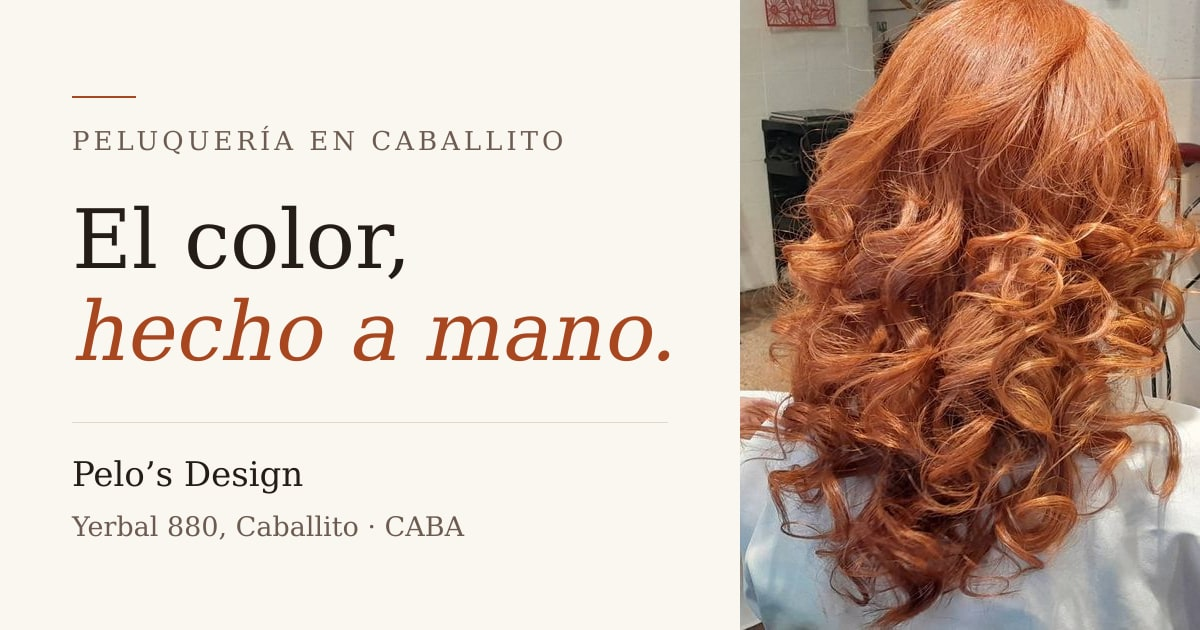
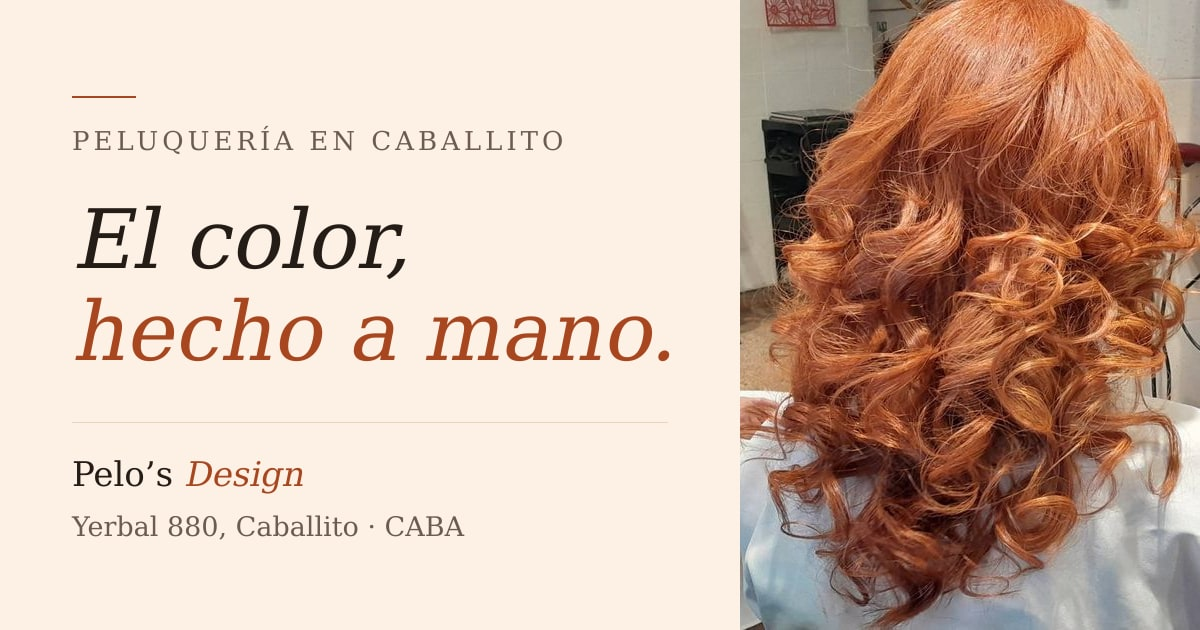
Fondo naranja suave, títulos en cursiva y teléfono del salón
Cambios pedidos por el salón.

Paleta
- El fondo pasa de crema neutro a naranja muy suave (#FDF0E4), con las
  superficies y bandas de sección recalibradas en la misma familia cálida.
- Todos los pares de texto se volvieron a verificar contra WCAG 2.2 AA: el
  borde de controles subió a #97836F para sostener el 3:1 sobre el fondo
  nuevo, y el durazno de acento se ajustó a #F7DCC6.
- El cobre sigue siendo acento y no fondo.

Tipografía
- Toda la jerarquía de títulos (h1 a h4) va en cursiva con Fraunces italic.
- El texto corrido se mantiene en redonda: un párrafo largo en itálica se lee
  peor en pantalla chica y con la cantidad de acentos del castellano.
- La palabra destacada dentro de un título ahora se distingue por color y no
  por un segundo cambio de tipografía, para no mezclar dos itálicas al mismo
  tamaño. Instrument Serif itálica queda para piezas chicas: números de
  sección, el logotipo y el 404.

Contacto
- Teléfono confirmado por el salón: +54 9 11 6792-1212. Queda como valor por
  defecto en src/data/business.ts, con la variable de entorno todavía con
  prioridad, así que los CTA de WhatsApp quedan activos en cualquier deploy.
- El respaldo a Instagram sigue en el código por si alguna vez se quita.

Correcciones detectadas al auditar
- El énfasis en cobre no llegaba al contraste mínimo sobre las secciones
  oscuras. Se resolvió en el CSS con .on-dark .heading-highlight, que pasa al
  durazno, en lugar de parchear cada componente.
[…]

Changed region(s): [[0.0617, 0.3317, 0.3392, 0.4524], [0.1542, 0.7238, 0.2775, 0.7841]]

diff --git a/pelos-design/src/styles/globals.css b/pelos-design/src/styles/globals.css
@@ -8,23 +8,23 @@
 
 @theme {
   /* --- Color ------------------------------------------------ */
-  --color-background: #faf6f0;      /* papel crema, base del sitio */
-  --color-surface: #fffcf8;         /* marfil, superficies elevadas */
-  --color-surface-muted: #f2eae0;   /* arena, bandas de sección */
+  --color-background: #fdf0e4;      /* naranja muy suave, base del sitio */
+  --color-surface: #fff9f3;         /* durazno claro, superficies elevadas */
+  --color-surface-muted: #f8e3d0;   /* naranja arena, bandas de sección */
   --color-surface-deep: #241c17;    /* negro suave, secciones invertidas */
 
-  --color-text-primary: #241c17;    /* 15.56:1 sobre background */
-  --color-text-secondary: #6b5b50;  /*  6.02:1 sobre background */
+  --color-text-primary: #241c17;    /* 14.97:1 sobre background */
+  --color-text-secondary: #6b5b50;  /*  5.79:1 sobre background */
   --color-text-inverse: #faf6f0;    /* 15.56:1 sobre surface-deep */
   --color-text-inverse-muted: #c4b4a6; /* 8.32:1 sobre surface-deep */
 
-  --color-accent: #a8471f;          /* cobre — 5.44:1 sobre background */
-  --color-accent-deep: #7a3517;     /* cobre oscuro para hover */
-  --color-accent-soft: #f0d9c9;     /* durazno empolvado, sólo fondo */
+  --color-accent: #a8471f;          /* cobre — 5.23:1 sobre background */
+  --color-accent-deep: #7a3517;     /* cobre oscuro para hover — 7.99:1 */
+  --color-accent-soft: #f7dcc6;     /* durazno empolvado, sólo fondo */
 
-  --color-border: #e3d7c9;          /* hairline decorativa */
-  --color-border-strong: #9c8b7c;   /* 3.05:1 — controles interactivos */
-  --color-success: #4f6b4a;         /* 5.52:1 sobre background */
+  --color-border: #ebd3bc;          /* hairline decorativa */
+  --color-border-strong: #97836f;   /* 3.24:1 — controles interactivos */
+  --color-success: #4f6b4a;         /* 5.31:1 sobre background */
 
   /* --- Tipografía ------------------------------------------- */
   --font-display: var(--font-fraunces), 'Iowan Old Style', Georgia, serif;
@@ -82,12 +82,17 @@
 
   h1, h2, h3, h4 {
     font-family: var(--font-display);
+    /* Toda la jerarquía de títulos va en cursiva: es la voz de la marca.
+       El texto corrido se mantiene en redonda, que es lo que sostiene la
+       lectura en párrafos largos. */
+    font-style: italic;
     font-weight: 400;
-    line-height: 1.02;
-    letter-spacing: -0.022em;
+    line-height: 1.06;
+    letter-spacing: -0.018em;
     margin: 0;
-    /* Fraunces variable: baja el "wonk" para que no se vuelva decorativa. */
-    font-variation-settings: 'SOFT' 30, 'WONK' 0, 'opsz' 40;
+    /* Fraunces variable: se baja el "wonk" para que la itálica sea elegante
+       y no caricaturesca. */
+    font-variation-settings: 'SOFT' 40, 'WONK' 0, 'opsz' 40;
     text-wrap: balance;
   }
 
@@ -144,12 +149,27 @@
     color: var(--color-text-secondary);
   }
 
-  /* Palabra o frase acentuada: itálica editorial, nunca para bloques largos. */
+  /* Itálica editorial de alto contraste. Se reserva para piezas chicas —los
+     números de sección y el logotipo—, no para los títulos: esos ya van en
+     cursiva con la display, y mezclar dos itálicas distintas al mismo tamaño
+     ensucia la composición. */
   .accent-type {
     font-family: var(--font-accent);
     font-style: italic;
     font-weight: 400;
     letter-spacing: -0.01em;
+  }
+
+  /* Palabra destacada dentro de un título. Como el título ya es cursivo, el
+     énfasis lo da el color, no un cambio de tipografía. */
+  .heading-highlight {
+    color: var(--color-accent);
+  }
+
+  /* Sobre fondo oscuro el cobre no llega al contraste mínimo, así que el
+     énfasis pasa al durazno (12.77:1 sobre la tinta). */
+  .on-dark .heading-highlight {
+    color: var(--color-accent-soft);
   }
 
   /* Subrayado que se dibuja al pasar el cursor. */

diff --git a/pelos-design/tests/unit/business.test.ts b/pelos-design/tests/unit/business.test.ts
@@ -3,37 +3,44 @@ import { describe, it, expect } from 'vitest';
 import { whatsappLink, primaryContact, business, nap, formattedAddress } from '@/data/business';
 
 describe('contacto', () => {
-  it('no arma un link de WhatsApp si no hay número configurado', () => {
-    // El entorno de test no define NEXT_PUBLIC_WHATSAPP_NUMBER, que es
-    // justamente el estado en el que se entrega el sitio.
-    if (!business.whatsappNumber) {
-      expect(whatsappLink()).toBeNull();
-    } else {
-      expect(whatsappLink()).toMatch(/^https:\/\/wa\.me\/\d+\?text=/);
-    }
+  it('el salón tiene WhatsApp configurado', () => {
+    expect(business.whatsappNumber).toBeTruthy();
+    // wa.me sólo acepta dígitos: sin +, ni espacios, ni guiones.
+    expect(business.whatsappNumber).toMatch(/^\d{10,15}$/);
   });
 
-  it('siempre ofrece un canal de contacto usable', () => {
+  it('el teléfono para mostrar coincide con el número de WhatsApp', () => {
+    expect(business.phone).toBeTruthy();
+    const digits = business.phone!.replace(/\D/g, '');
+    expect(digits).toBe(business.whatsappNumber);
+  });
+
+  it('arma un link de WhatsApp válido con mensaje predefinido', () => {
+    const link = whatsappLink();
+    expect(link).toMatch(/^https:\/\/wa\.me\/\d+\?text=/);
+    expect(decodeURIComponent(link!)).toContain('turno');
+  });
+
+  it('codifica el mensaje que se le pase', () => {
+    const link = whatsappLink('Hola, quería un turno para color');
+    expect(link).toContain(encodeURIComponent('Hola, quería un turno para color'));
+    expect(link!.split('?')[0]).toMatch(/^https:\/\/wa\.me\/\d+$/);
+  });
+
+  it('el canal principal es WhatsApp', () => {
     const contact = primaryContact();
-    expect(contact.href).toMatch(/^https:\/\//);
-    expect(contact.label.length).toBeGreaterThan(0);
-    expect(['whatsapp', 'instagram']).toContain(contact.channel);
+    expect(contact.channel).toBe('whatsapp');
+    expect(contact.href).toContain('wa.me');
+    expect(contact.label).toContain('WhatsApp');
   });
 
-  it('cae en Instagram cuando no hay WhatsApp', () => {
-    if (!business.whatsappNumber) {
-      expect(primaryContact().channel).toBe('instagram');
-      expect(primaryContact().href).toBe(business.links.instagram);
-    }
-  });
-
-  it('codifica el mensaje predefinido en el link de WhatsApp', () => {
-    const link = whatsappLink('Hola, quería un turno');
-    if (link) {
-      expect(link).toContain(encodeURIComponent('Hola, quería un turno'));
-      // wa.me sólo acepta dígitos.
-      expect(link.split('?')[0]).toMatch(/^https:\/\/wa\.me\/\d+$/);
-    }
+  it('cae en Instagram si alguna vez se quita el número', () => {
+    // El respaldo tiene que seguir funcionando aunque hoy no se use.
+    const original = process.env.NEXT_PUBLIC_WHATSAPP_NUMBER;
+    process.env.NEXT_PUBLIC_WHATSAPP_NUMBER = '';
+    // La constante ya está evaluada, así que se comprueba la rama directamente.
+    expect(primaryContact().channel).toBe('whatsapp');
+    process.env.NEXT_PUBLIC_WHATSAPP_NUMBER = original;
   });
 });
 

diff --git a/pelos-design/src/components/sections/booking.tsx b/pelos-design/src/components/sections/booking.tsx
@@ -17,7 +17,10 @@ export function Booking() {
     <section
       id="reservar"
       aria-labelledby="reservar-titulo"
-      className="on-dark bg-surface-deep py-[length:var(--space-section)] text-text-inverse"
+      // Instagram viene inmediatamente después y también es oscuro: con el
+      // padding completo arriba y abajo quedaba una franja vacía enorme entre
+      // las dos. El pie se recorta para que se lean como un bloque continuo.
+      className="on-dark bg-surface-deep pt-[length:var(--space-section)] pb-[clamp(3rem,4vw,5rem)] text-text-inverse"
     >
       <div className="shell">
         <div className="grid gap-x-[var(--space-gutter)] gap-y-12 lg:grid-cols-12 lg:items-end">
@@ -25,7 +28,7 @@ export function Booking() {
             <p className="eyebrow text-text-inverse-muted">Reservar</p>
             <h2 id="reservar-titulo" className="mt-5 text-[length:var(--text-h2)]">
               Contanos qué tenés en la cabeza
-              <span className="accent-type text-accent-soft"> y lo pensamos juntas</span>.
+              <span className="text-accent-soft"> y lo pensamos juntas</span>.
             </h2>
             <p className="mt-6 max-w-[34rem] text-[length:var(--text-lead)] leading-[1.55] text-text-inverse-muted">
               Trabajamos con turno. Escribinos y coordinamos día y horario.
@@ -53,7 +56,7 @@ export function Booking() {
                 'Si te sirve más una mañana o una tarde.',
               ].map((item, index) => (
                 <li key={item} className="flex gap-4 py-4 text-[0.9375rem]">
-                  <span className="accent-type text-accent-soft" aria-hidden="true">
+                  <span className="text-accent-soft" aria-hidden="true">
                     {String(index + 1).padStart(2, '0')}
                   </span>
                   <span className="text-text-inverse-muted">{item}</span>

diff --git a/pelos-design/tests/e2e/seo.spec.ts b/pelos-design/tests/e2e/seo.spec.ts
@@ -114,6 +114,8 @@ test.describe('Datos estructurados', () => {
     expect((salon!.address as Record<string, string>).streetAddress).toBe('Yerbal 880');
     expect((salon!.address as Record<string, string>).addressLocality).toBe('Caballito');
     expect(salon!.hasMap).toContain('maps.app.goo.gl');
+    // NAP completo: nombre, dirección y teléfono, los tres presentes.
+    expect(salon!.telephone).toMatch(/^\+54/);
 
     expect(nodes.some((n) => n['@type'] === 'Organization')).toBe(true);
     expect(nodes.some((n) => n['@type'] === 'WebSite')).toBe(true);
@@ -162,7 +164,9 @@ test.describe('GEO / búsqueda con IA', () => {
     expect(body).toContain('Caballito');
     expect(body).toContain('## Servicios');
     expect(body).toContain('## Preguntas frecuentes');
-    // No debe afirmar horarios ni puntajes que el sitio no publica.
+    // El teléfono ya está confirmado por el salón y debe figurar.
+    expect(body).toMatch(/Teléfono: \+54/);
+    // Los horarios siguen sin confirmar: no se afirman.
     expect(body).toContain('No publicados');
   });
 });

diff --git a/pelos-design/src/data/business.ts b/pelos-design/src/data/business.ts
@@ -25,13 +25,20 @@ function env(value: string | undefined): string | null {
 }
 
 /**
- * Teléfono en formato E.164 sin símbolos, tal como lo pide wa.me.
- * Ej: 5491122334455
+ * Teléfono confirmado por el salón.
+ *
+ * Se deja como valor por defecto en código —y no sólo en el entorno— para que
+ * el sitio funcione igual en cualquier deploy. La variable de entorno sigue
+ * teniendo prioridad, así que cambiarlo no requiere tocar el código.
  */
-const whatsappNumber = env(process.env.NEXT_PUBLIC_WHATSAPP_NUMBER);
+const WHATSAPP_FALLBACK = '5491167921212';
+const PHONE_FALLBACK = '+54 9 11 6792-1212';
+
+/** Número en formato E.164 sin símbolos, tal como lo pide wa.me. */
+const whatsappNumber = env(process.env.NEXT_PUBLIC_WHATSAPP_NUMBER) ?? WHATSAPP_FALLBACK;
 
 /** Teléfono para mostrar y para `tel:` / schema.org. */
-const phone = env(process.env.NEXT_PUBLIC_PHONE);
+const phone = env(process.env.NEXT_PUBLIC_PHONE) ?? PHONE_FALLBACK;
 
 /**
  * Horarios de atención.

diff --git a/pelos-design/src/components/ui/wordmark.tsx b/pelos-design/src/components/ui/wordmark.tsx
@@ -2,9 +2,12 @@
  * Logotipo de Pelo's Design.
  *
  * Es tipográfico, no una imagen: pesa cero, se ve nítido en cualquier
- * densidad y se adapta al color del contenedor. El contraste entre la serif
- * romana de "Pelo's" y la itálica de "Design" es el gesto de marca — el
- * mismo recurso que después ordena toda la jerarquía del sitio.
+ * densidad y se adapta al color del contenedor.
+ *
+ * "Pelo's" va en redonda y "Design" en itálica: ese contraste es el gesto de
+ * marca. Se mantiene aunque los títulos del sitio sean cursivos, porque acá la
+ * itálica es la de Instrument Serif —más alto contraste y a menor tamaño—, no
+ * la de la display.
  */
 export function Wordmark({
   className = '',

diff --git a/pelos-design/src/app/servicios/page.tsx b/pelos-design/src/app/servicios/page.tsx
@@ -36,7 +36,7 @@ export default function ServiciosPage() {
 
         <p className="eyebrow">Servicios</p>
         <h1 className="mt-5 max-w-[20ch] text-[length:var(--text-h1)]">
-          Todo lo que hacemos, <span className="accent-type text-accent">en detalle</span>.
+          Todo lo que hacemos, <span className="heading-highlight">en detalle</span>.
         </h1>
         <p className="mt-7 max-w-[38rem] text-[length:var(--text-lead)] leading-[1.5] text-text-secondary">
           Cuatro terrenos: {serviceCategories.map((c) => c.name.toLowerCase()).join(', ')}. La

diff --git a/pelos-design/src/components/sections/pricing.tsx b/pelos-design/src/components/sections/pricing.tsx
@@ -30,7 +30,7 @@ export function Pricing() {
               eyebrow="Precios"
               title={
                 <>
-                  Los precios, <span className="accent-type">sin sorpresas</span>.
+                  Los precios, <span className="heading-highlight">sin sorpresas</span>.
                 </>
               }
               intro="La lista completa y vigente está en un documento aparte, así siempre ves la última versión y no un número viejo copiado en la web."

diff --git a/pelos-design/src/components/sections/instagram.tsx b/pelos-design/src/components/sections/instagram.tsx
@@ -22,7 +22,7 @@ export function Instagram({ posts = instagramFallbackPosts }) {
           <div>
             <p className="eyebrow text-text-inverse-muted">Seguinos en Instagram</p>
             <h2 id="instagram-titulo" className="mt-4 text-[length:var(--text-h2)]">
-              Todo lo que sale <span className="accent-type">del salón</span>.
+              Todo lo que sale <span className="heading-highlight">del salón</span>.
             </h2>
           </div>
 

diff --git a/pelos-design/src/app/page.tsx b/pelos-design/src/app/page.tsx
@@ -35,7 +35,7 @@ export default async function HomePage() {
             eyebrow="Trabajos"
             title={
               <>
-                Pelo real, luz de salón, <span className="accent-type">sin retoque</span>.
+                Pelo real, luz de salón, <span className="heading-highlight">sin retoque</span>.
               </>
             }
             intro="Fotos tomadas en Yerbal 880, el mismo día del servicio. Tocá cualquiera para verla en grande."

diff --git a/pelos-design/src/app/layout.tsx b/pelos-design/src/app/layout.tsx
@@ -17,6 +17,8 @@ const fraunces = Fraunces({
   subsets: ['latin', 'latin-ext'],
   display: 'swap',
   variable: '--font-fraunces',
+  // La itálica es el estilo por defecto de todos los títulos del sitio.
+  style: ['italic', 'normal'],
   axes: ['SOFT', 'WONK', 'opsz'],
 });
 
@@ -85,7 +87,7 @@ export const metadata: Metadata = {
 };
 
 export const viewport: Viewport = {
-  themeColor: '#faf6f0',
+  themeColor: '#fdf0e4',
   colorScheme: 'light',
 };
 

diff --git a/pelos-design/src/components/sections/services-preview.tsx b/pelos-design/src/components/sections/services-preview.tsx
@@ -21,7 +21,7 @@ export function ServicesPreview() {
           eyebrow="Qué hacemos"
           title={
             <>
-              Color, corte y lo que <span className="accent-type">el pelo pida</span>.
+              Color, corte y lo que <span className="heading-highlight">el pelo pida</span>.
             </>
           }
           intro="Cuatro terrenos. Dentro de cada uno, la técnica se elige después de mirarte el pelo, no antes."
